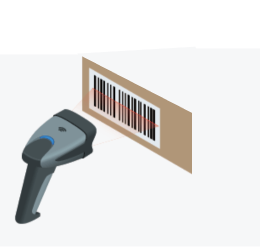
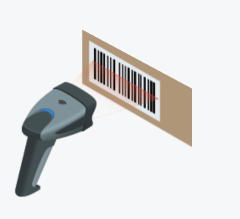
SLM-74: Update layout and content for initial scan barcode page (#78)
SLM-74: Update layout and content for initial scan barcode page

Changed region(s): [[0.0583, 0.137, 0.8167, 0.8767], [0.0583, 0.7397, 0.1167, 0.9315]]

diff --git a/assets/sass/components/_scan-barcode-form.scss b/assets/sass/components/_scan-barcode-form.scss
@@ -1,7 +1,16 @@
 #scan-barcode-form {
 
-  img {
-    width: 50%;
-    margin-bottom: 16px;
+  .example-scanner {
+    @media (min-width: 40.0625em) {
+      h2 {
+        border-top: 3px solid $govuk-brand-colour;
+        padding-top: 1rem;
+      }
+    }
+    .img-container {
+      img {
+        width: 100%;
+      }
+    }
   }
 }
